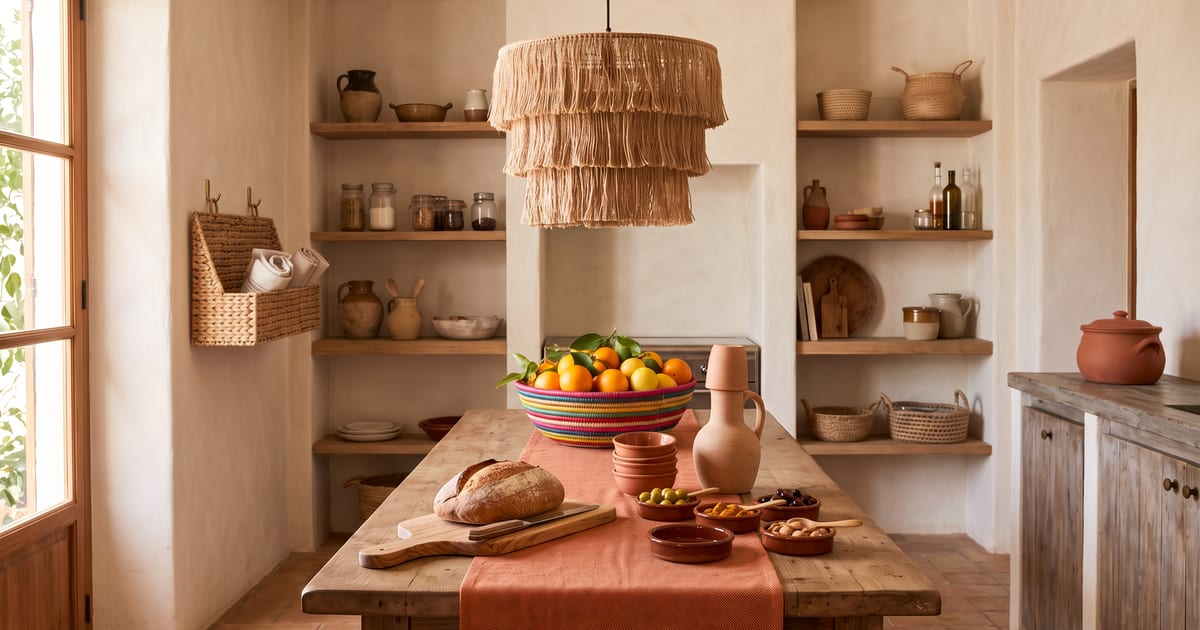
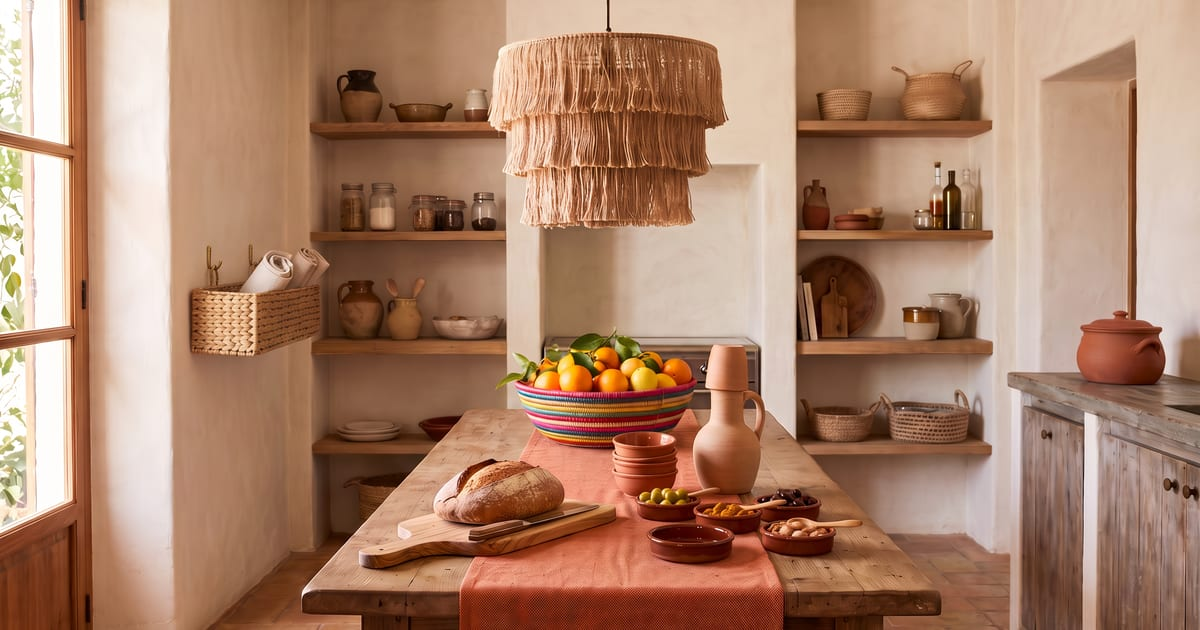
Cuisine terre cuite : le panier suspendu redessiné d'après l'annonce (bas et long, sur deux crochets)

diff --git a/contenu/articles/cuisine-terre-cuite-paniers.md b/contenu/articles/cuisine-terre-cuite-paniers.md
@@ -7,7 +7,7 @@ pieces: [cuisine-salle-a-manger]
 matieres: [terre-cuite, raphia-paniers]
 occasions: []
 image: cuisine-terre-cuite-paniers
-image_alt: "Cuisine rustique aux murs chaulés : grande table en bois avec chemin de table terracotta à glands, planche en olivier et pain, cassolettes et petits bols en terre cuite, carafe en argile, corbeille tressée aux rayures multicolores remplie d’agrumes, suspension en jute à franges, panier mural garni de torchons, pot en terre cuite sur le plan de travail et tapis de couloir tissé."
+image_alt: "Cuisine rustique aux murs chaulés : grande table en bois avec chemin de table terracotta à glands, planche en olivier et pain, cassolettes et petits bols en terre cuite, carafe en argile, corbeille tressée aux rayures multicolores remplie d’agrumes, suspension en jute à franges, panier mural bas et long, en jacinthe d’eau, garni de torchons, pot en terre cuite sur le plan de travail et tapis de couloir tissé."
 image_ia: true
 produits:
   - planche-olivier-39
@@ -22,7 +22,7 @@ produits:
   - tapis-couloir-kilim-chindi
 hotspots:
   - { produit: suspension-jute-boheme, x: 51, y: 17 }
-  - { produit: panier-mural-tresse, x: 21, y: 36 }
+  - { produit: panier-mural-tresse, x: 21, y: 41 }
   - { produit: corbeille-fruits-tressee, x: 50, y: 52 }
   - { produit: carafe-argile-naturelle, x: 61, y: 55 }
   - { produit: bols-terre-cuite-lot-12, x: 54, y: 58 }
